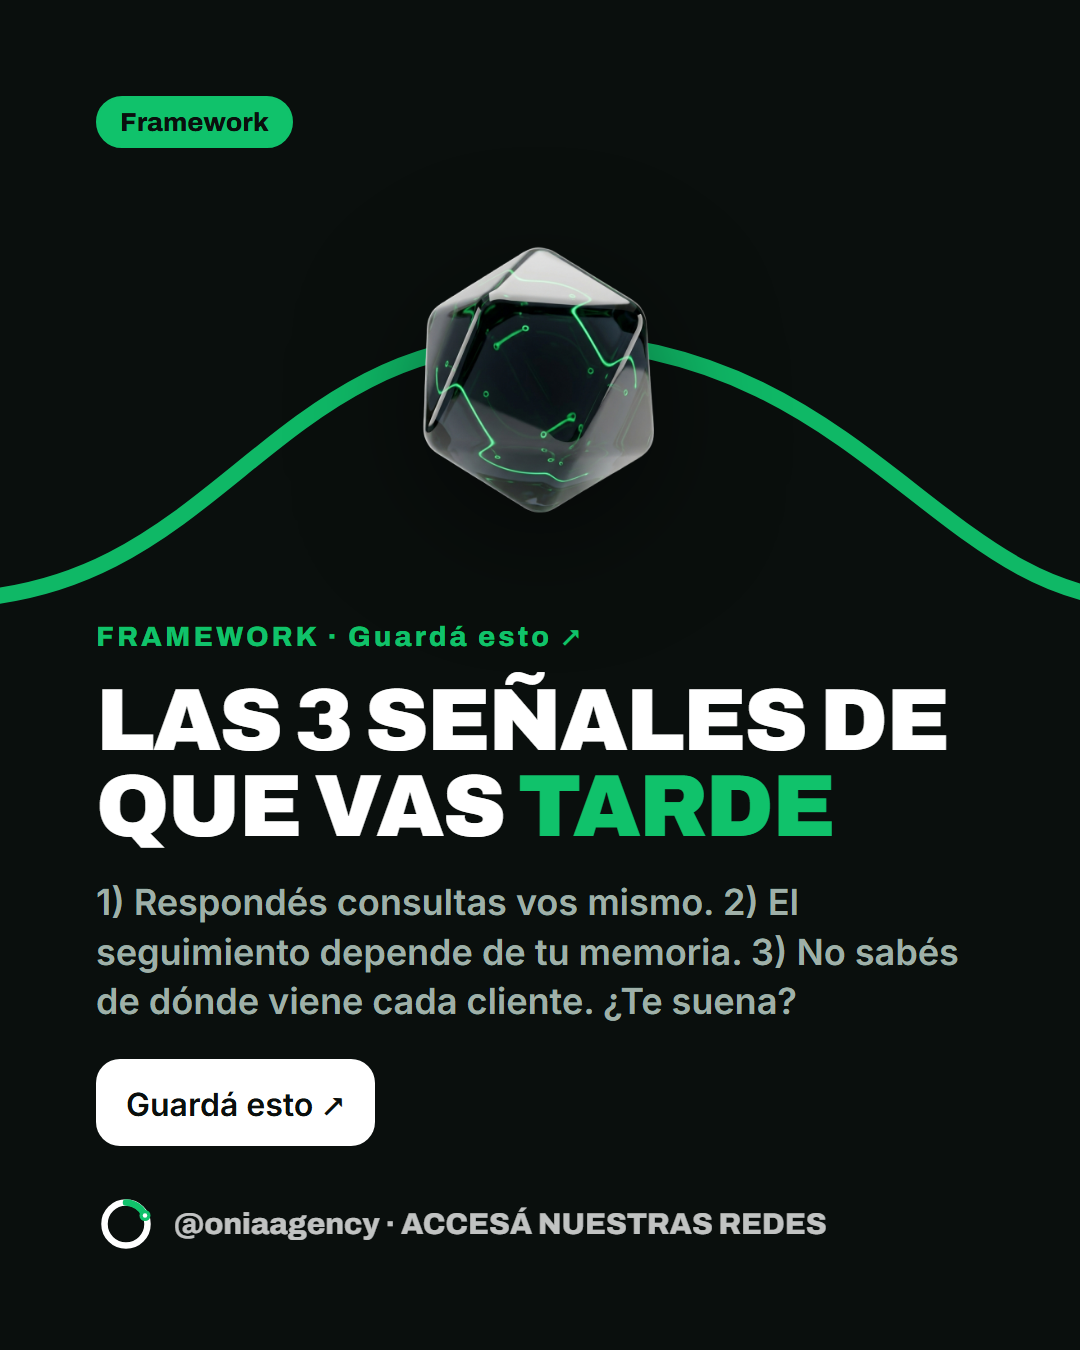
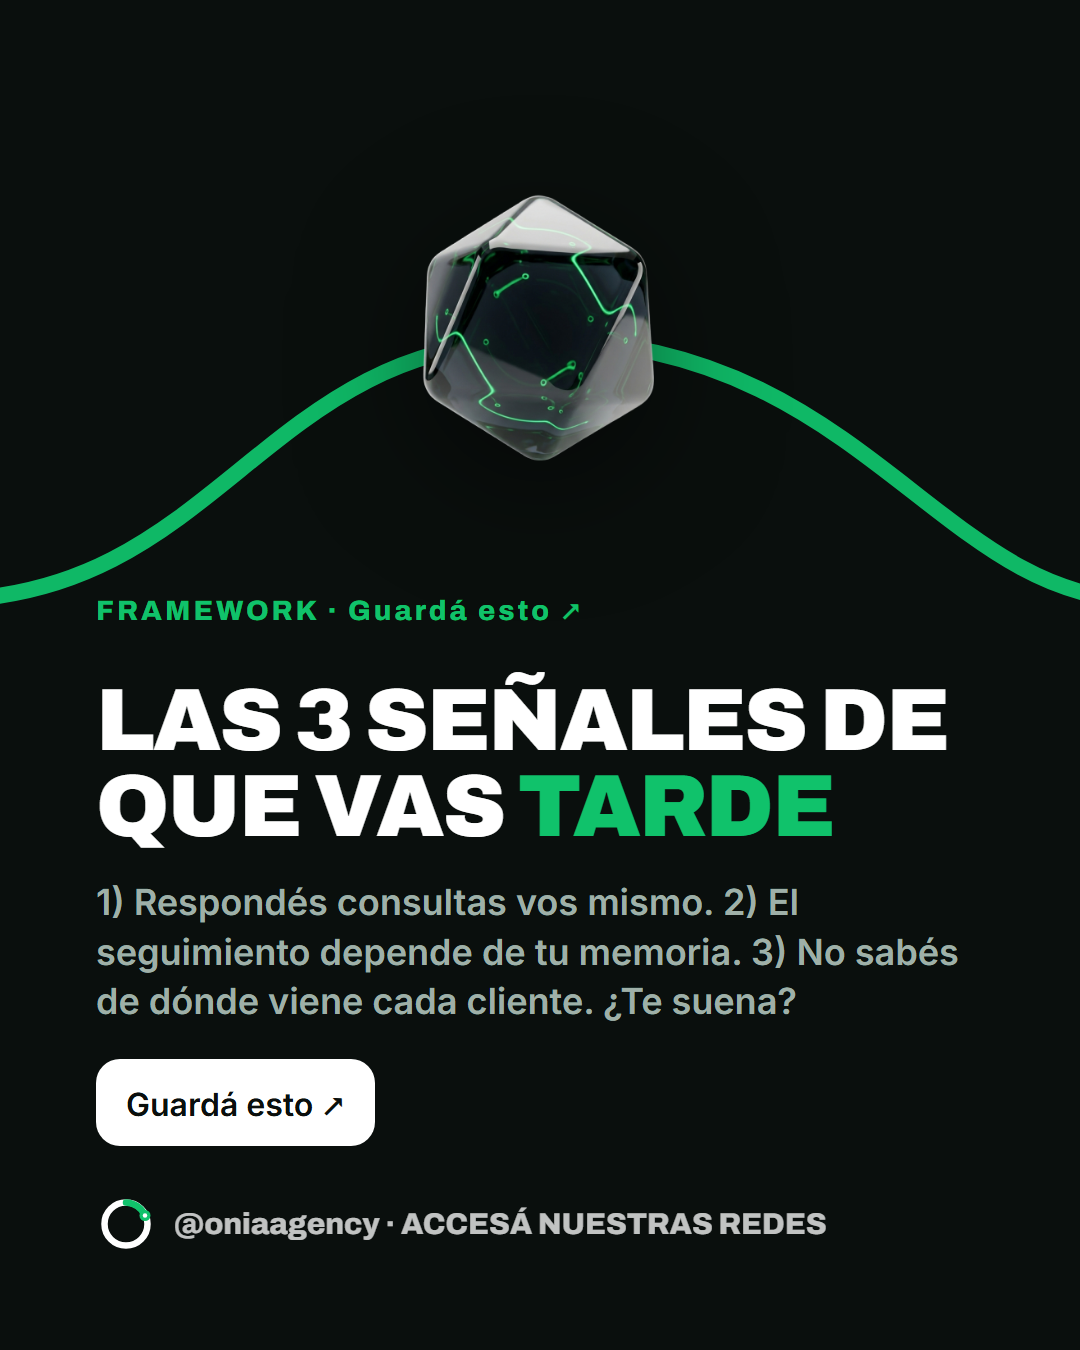
fix: slide save sin pill duplicado de FRAMEWORK (dark-product/dark-neon)

Changed region(s): [[0.3667, 0.1244, 0.6111, 0.4044], [0.0917, 0.4356, 0.5194, 0.4978], [0.0917, 0.0622, 0.275, 0.1244]]

diff --git a/scripts/carousel_render.js b/scripts/carousel_render.js
@@ -251,7 +251,9 @@ function darkProductHtml(slide, idx, total, account, args) {
     ? `<img class="object" src="file://${String(args.object).replace(/\\/g, '/')}" alt="">`
     : '';
 
-  const pills = slide.pill ? `<div class="pills">
+  // On save slides the savetag already labels "FRAMEWORK", so drop the top pill
+  // to avoid the duplicate and keep the hierarchy clean.
+  const pills = (slide.pill && role !== 'save') ? `<div class="pills">
     <span class="pill solid">${esc(slide.pill)}</span>
   </div>` : '<div class="pills"></div>';
 
@@ -352,7 +354,7 @@ function darkNeonHtml(slide, idx, total, account, args) {
     ? `<img class="object" src="file://${String(args.object).replace(/\\/g, '/')}" alt="">`
     : '';
 
-  const pills = slide.pill ? `<div class="pills">
+  const pills = (slide.pill && role !== 'save') ? `<div class="pills">
     <span class="pill solid">${esc(slide.pill)}</span>
   </div>` : '<div class="pills"></div>';
   const callout = slide.callout ? `<div class="callout">${emph(slide.callout)}</div>` : '';
